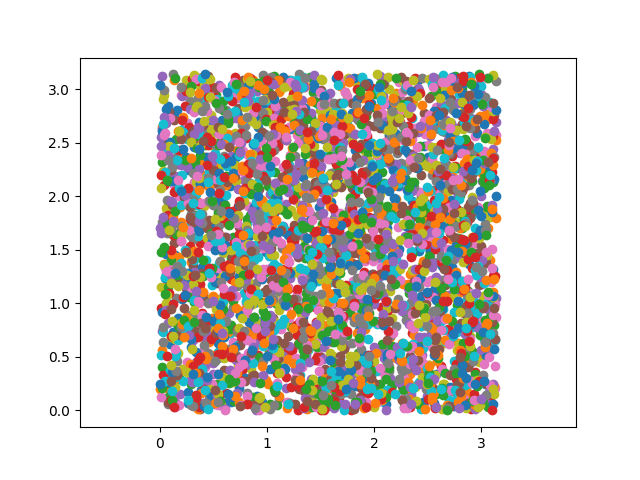
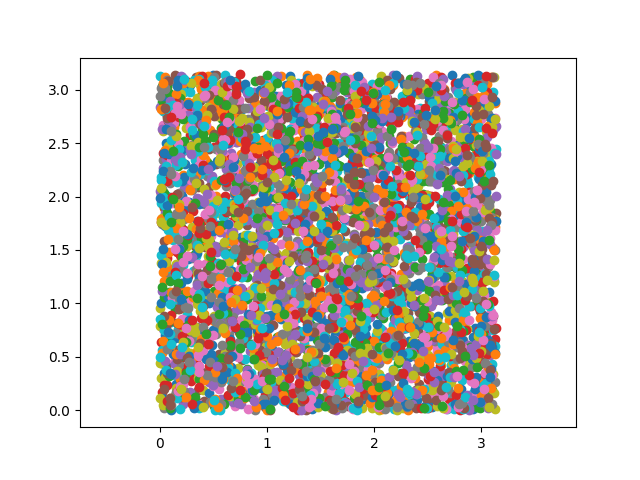
Changed: image

diff --git a/main.py b/main.py
@@ -7,12 +7,12 @@ button_text = pygame.font.SysFont('Comic Sans MS', 20)
 
 
 ex = Examples()
-e = ex.generate(4000)
+e = ex.generate(5000)
 x_min = np.min(e[0])
 x_max = np.max(e[0])
 x_train = (np.array(e[0]) - x_min) / (x_max - x_min) * 0.8 + 0.1
 y_train = np.array(e[1]) / np.pi * 0.8 + 0.1
-NN = Neural_Network()
+NN = Neural_Network(hidden_size=5)
 screen.fill(WHITE)
 pygame.display.flip()
 
@@ -22,7 +22,7 @@ while running:
     learn_button = pygame.draw.rect(screen, (200, 200, 200), (screen.get_width()/2-32, 360, 64, 32))
     screen.blit(learn_text, learn_button)
 
-    pygame.draw.line(screen, BLACK, (0, 351), (450, 351), width=1)
+    pygame.draw.line(screen, BLACK, (0, 351), (440, 351), width=1)
     pygame.display.flip()
     for event in pygame.event.get():
         if event.type == pygame.QUIT:
@@ -45,7 +45,7 @@ while running:
                 pygame.draw.line(screen, BLACK, (img_width, img_height / 2), (arm_pts[0].x, arm_pts[0].y), width=3)
                 pygame.draw.line(screen, BLACK, (arm_pts[0].x, arm_pts[0].y), (arm_pts[1].x, arm_pts[1].y), width=3)
             if 360 <= pygame.mouse.get_pos()[1] <= 392 and (screen.get_width()/2-32) <= pygame.mouse.get_pos()[0] <= (screen.get_width()/2+32):
-                for i in range(20000):
+                for i in range(15000):
                     NN.train(x_train, y_train)
                 err = NN.errors
                 plt.plot(range(len(err)), err)
@@ -62,4 +62,4 @@ while running:
                 for (x, y) in e[1]:
                     plt.scatter(x, y, marker='o')
                 plt.savefig('e_1.png')
-                learn_button_text = "LEARNED!"
+                learn_button_text = "LEARNED"

diff --git a/variables.py b/variables.py
@@ -4,7 +4,7 @@ from Neural_Network import *
 
 # pygame variables
 running = True
-(width, height) = (450, 450)
+(width, height) = (440, 440)
 WHITE = (255, 255, 255)
 BLACK = (0, 0, 0)
 pygame.display.set_caption('Backpropagation')
@@ -15,4 +15,4 @@ learn_button_text = "LEARN"
 robot_img = pygame.image.load('robot.png')
 img_width = robot_img.get_width()
 img_height = robot_img.get_height()
-arm_length = 80.0
+arm_length = 100.0

diff --git a/Examples.py b/Examples.py
@@ -25,7 +25,7 @@ class Point(object):
 
 class Examples(object):
     def __init__(self):
-        self.center = Point(img_width, img_height/2)
+        self.center = Point(0, 0)
         self.input = []
         self.output = []
 
